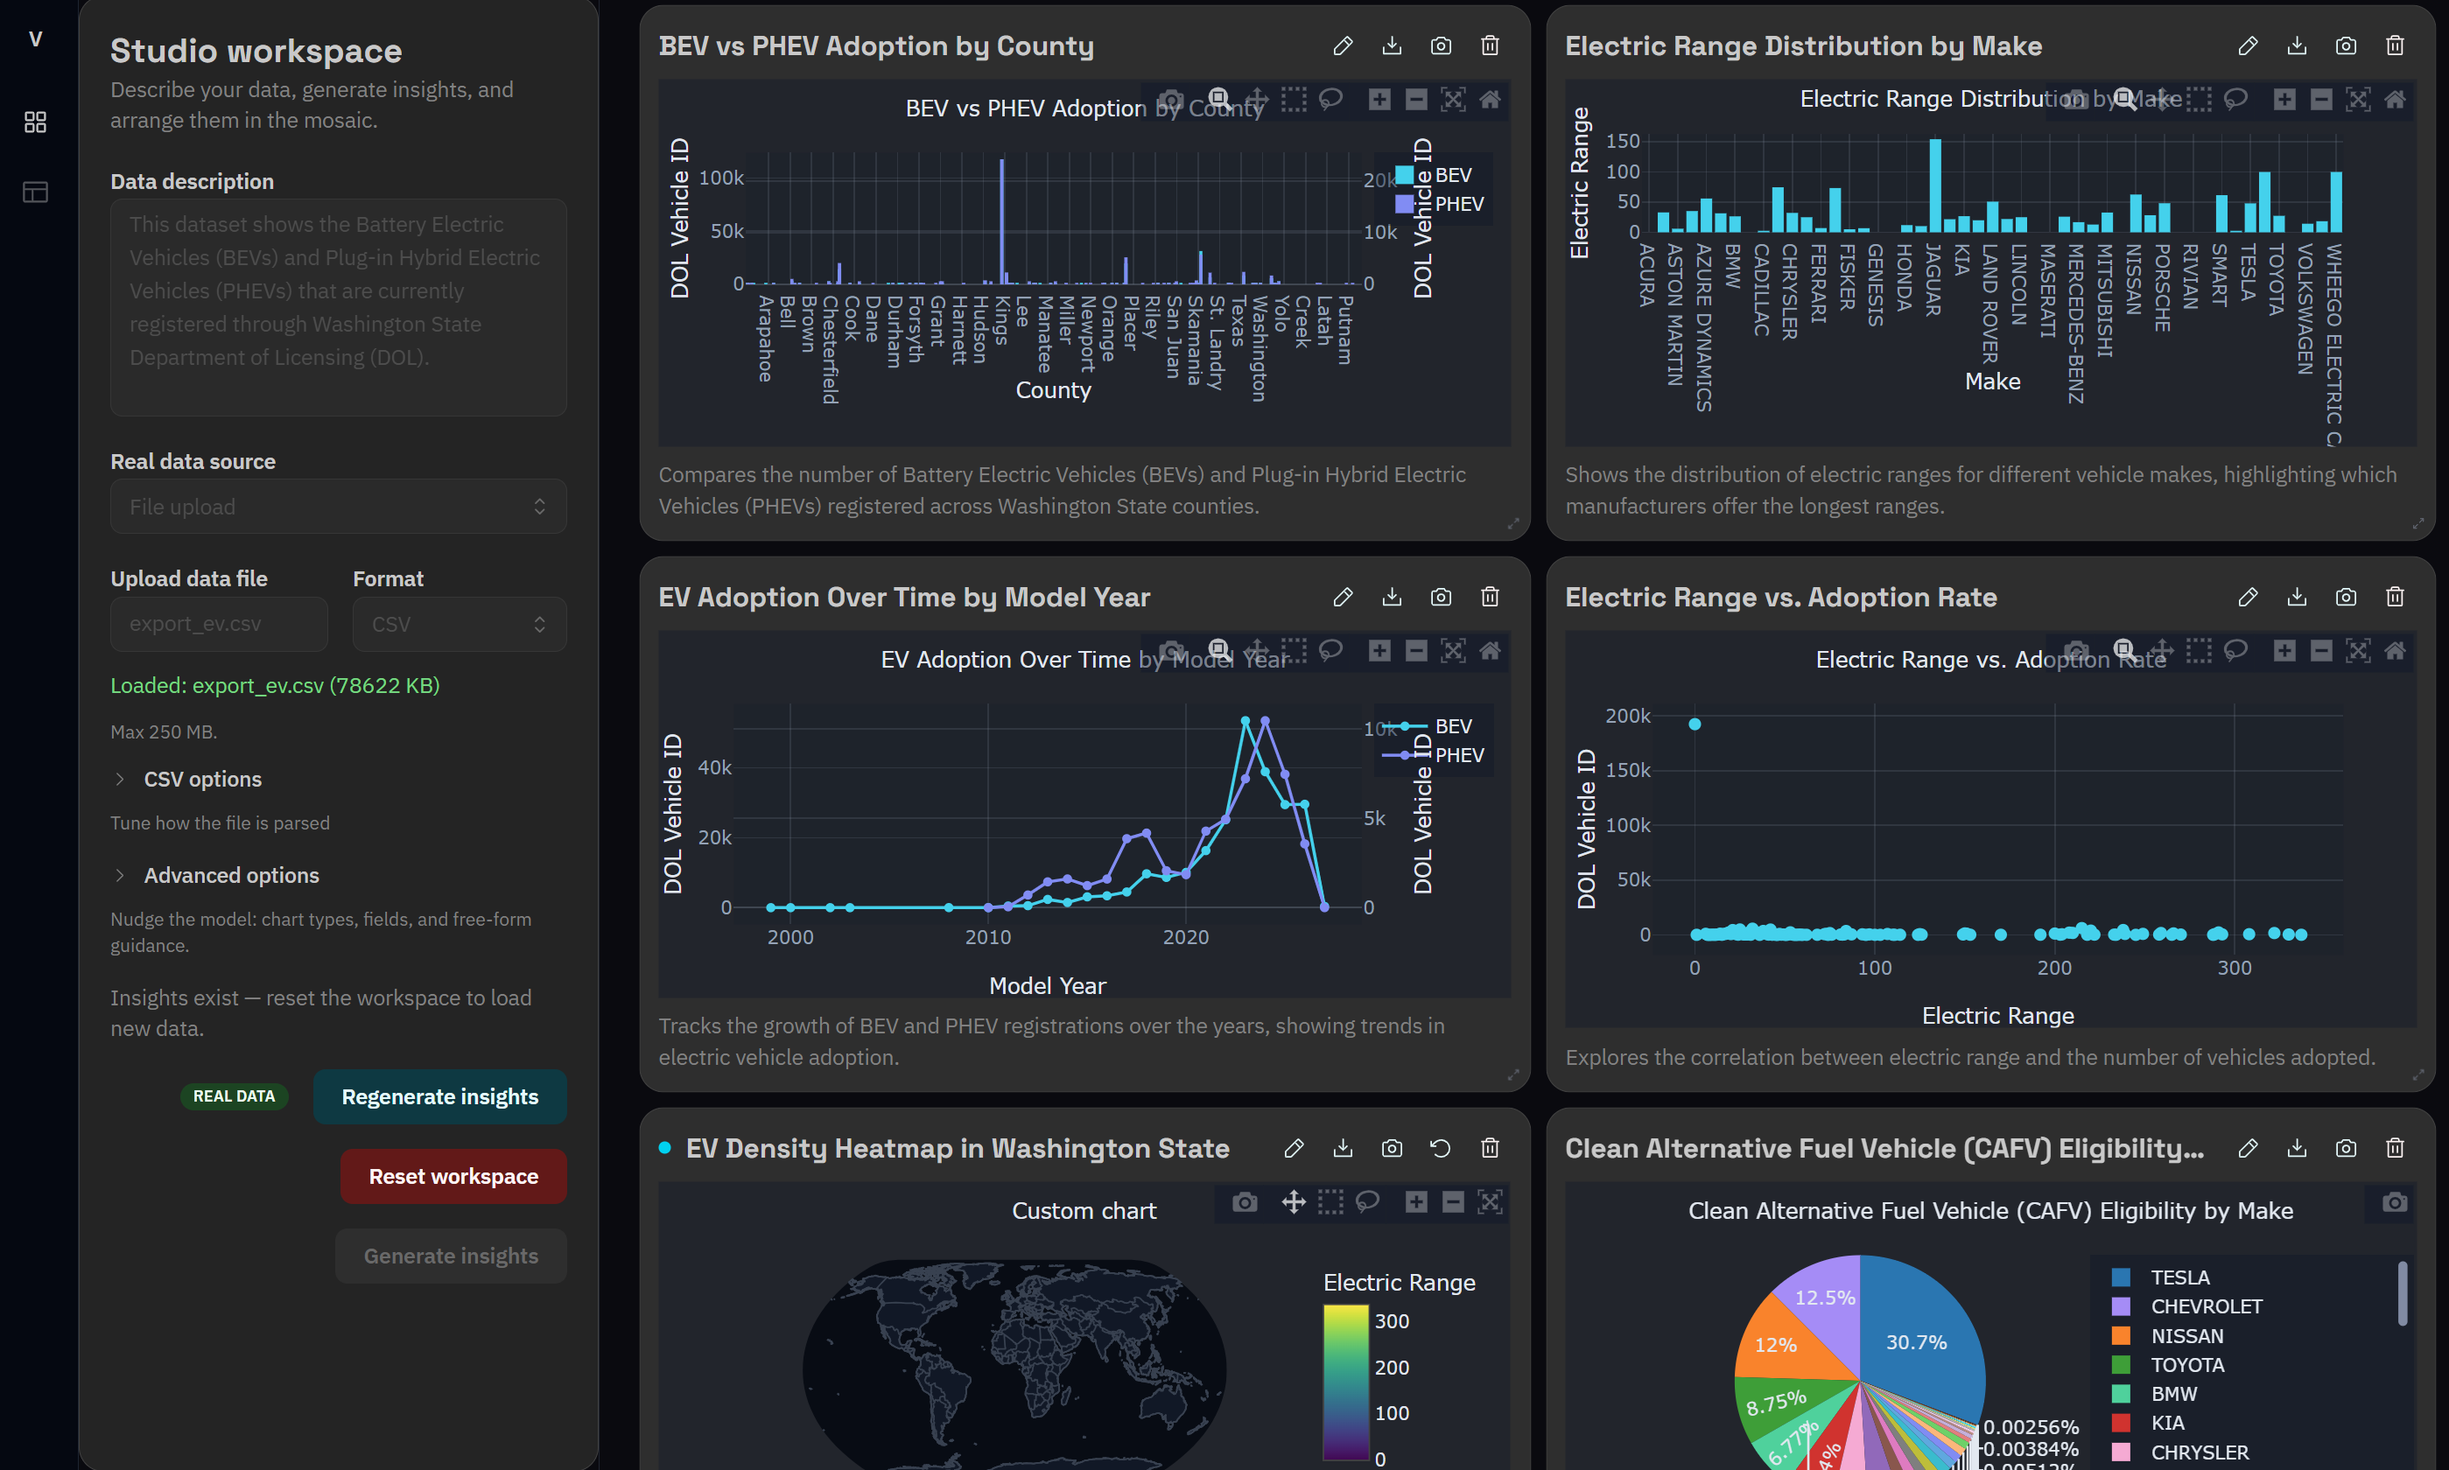
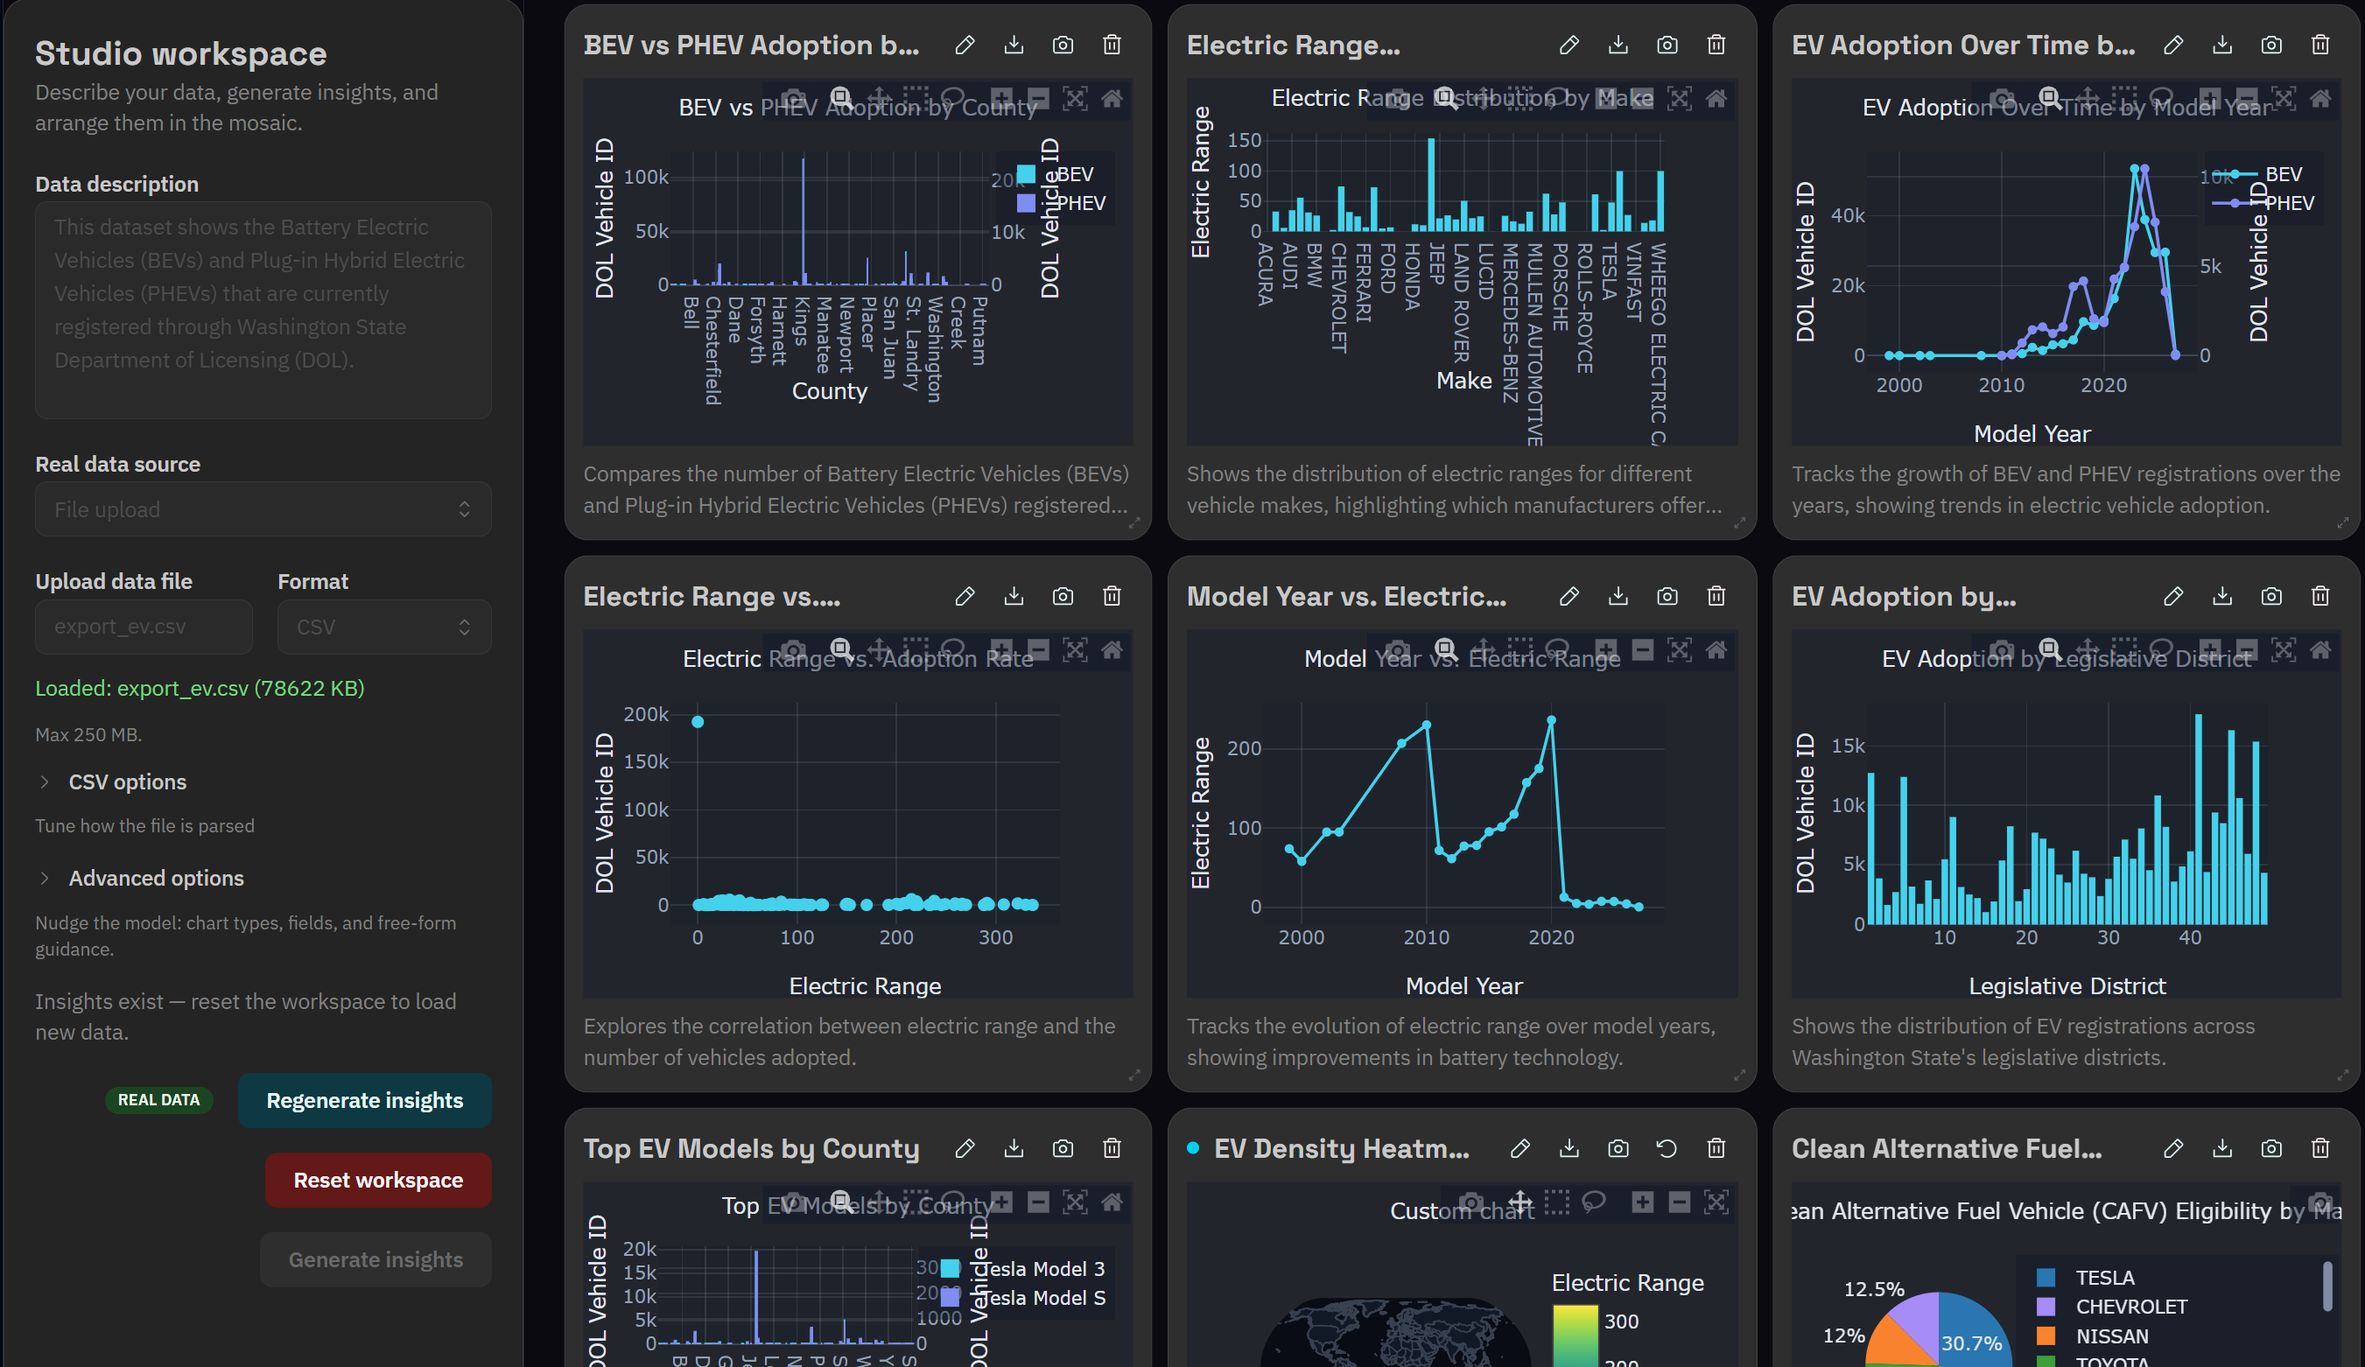
update readme

diff --git a/README.md b/README.md
@@ -2,13 +2,12 @@
 
 ## Live demo: [vizier.dedoncker.dev](https://vizier.dedoncker.dev)
 
------
+[![Vizier AI Demo](demo-thumb.png)](https://vizier.dedoncker.dev)
 
 Turn any data description into interactive analytics dashboards — instantly.
 
 Vizier AI takes a free-form description of your dataset (prose, schema, sample rows, or all three), uses an LLM to generate analytics insights with chart specifications, and renders them as interactive Plotly charts. Optionally connect real data via file upload, REST API, or SQL query to replace mock data with the real thing.
 
-[![Vizier AI Demo](demo-thumb.png)](https://www.youtube.com/watch?v=e7Y6D2jY9oI)
 
 ## What It Does
 
